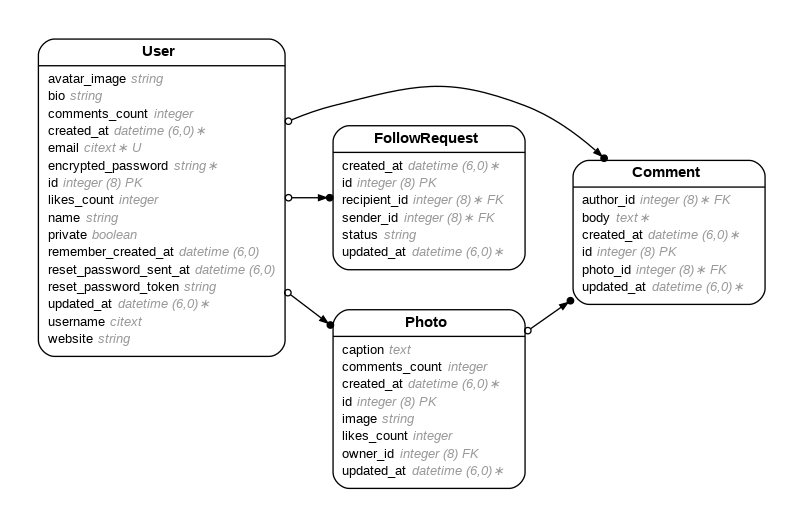
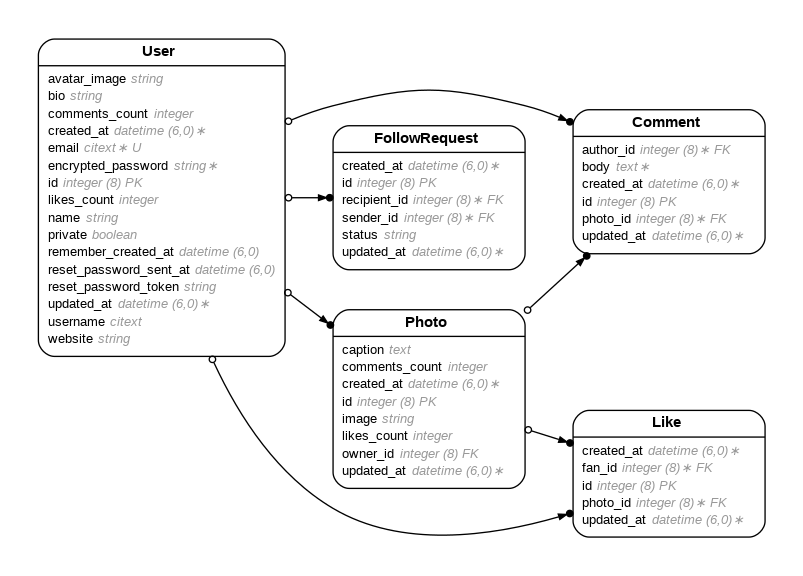
Generated likes

diff --git a/app/controllers/likes_controller.rb b/app/controllers/likes_controller.rb
@@ -1,0 +1,70 @@
+class LikesController < ApplicationController
+  before_action :set_like, only: %i[ show edit update destroy ]
+
+  # GET /likes or /likes.json
+  def index
+    @likes = Like.all
+  end
+
+  # GET /likes/1 or /likes/1.json
+  def show
+  end
+
+  # GET /likes/new
+  def new
+    @like = Like.new
+  end
+
+  # GET /likes/1/edit
+  def edit
+  end
+
+  # POST /likes or /likes.json
+  def create
+    @like = Like.new(like_params)
+
+    respond_to do |format|
+      if @like.save
+        format.html { redirect_to @like, notice: "Like was successfully created." }
+        format.json { render :show, status: :created, location: @like }
+      else
+        format.html { render :new, status: :unprocessable_entity }
+        format.json { render json: @like.errors, status: :unprocessable_entity }
+      end
+    end
+  end
+
+  # PATCH/PUT /likes/1 or /likes/1.json
+  def update
+    respond_to do |format|
+      if @like.update(like_params)
+        format.html { redirect_to @like, notice: "Like was successfully updated." }
+        format.json { render :show, status: :ok, location: @like }
+      else
+        format.html { render :edit, status: :unprocessable_entity }
+        format.json { render json: @like.errors, status: :unprocessable_entity }
+      end
+    end
+  end
+
+  # DELETE /likes/1 or /likes/1.json
+  def destroy
+    @like.destroy!
+
+    respond_to do |format|
+      format.html { redirect_to likes_path, status: :see_other, notice: "Like was successfully destroyed." }
+      format.json { head :no_content }
+    end
+  end
+
+  private
+    # Use callbacks to share common setup or constraints between actions.
+    def set_like
+      @like = Like.find(params.expect(:id))
+    end
+
+    # Only allow a list of trusted parameters through.
+    def like_params
+      params.expect(like: [ :fan_id, :photo_id ])
+    end
+end

diff --git a/db/schema.rb b/db/schema.rb
@@ -10,7 +10,7 @@
 #
 # It's strongly recommended that you check this file into your version control system.
 
-ActiveRecord::Schema[8.0].define(version: 2025_04_09_052010) do
+ActiveRecord::Schema[8.0].define(version: 2025_04_09_052348) do
   # These are extensions that must be enabled in order to support this database
   enable_extension "citext"
   enable_extension "pg_catalog.plpgsql"
@@ -32,6 +32,15 @@ ActiveRecord::Schema[8.0].define(version: 2025_04_09_052010) do
     t.datetime "updated_at", null: false
     t.index ["recipient_id"], name: "index_follow_requests_on_recipient_id"
     t.index ["sender_id"], name: "index_follow_requests_on_sender_id"
+  end
+
+  create_table "likes", force: :cascade do |t|
+    t.bigint "fan_id", null: false
+    t.bigint "photo_id", null: false
+    t.datetime "created_at", null: false
+    t.datetime "updated_at", null: false
+    t.index ["fan_id"], name: "index_likes_on_fan_id"
+    t.index ["photo_id"], name: "index_likes_on_photo_id"
   end
 
   create_table "photos", force: :cascade do |t|
@@ -70,5 +79,7 @@ ActiveRecord::Schema[8.0].define(version: 2025_04_09_052010) do
   add_foreign_key "comments", "users", column: "author_id"
   add_foreign_key "follow_requests", "users", column: "recipient_id"
   add_foreign_key "follow_requests", "users", column: "sender_id"
+  add_foreign_key "likes", "photos"
+  add_foreign_key "likes", "users", column: "fan_id"
   add_foreign_key "photos", "users", column: "owner_id"
 end

diff --git a/app/models/like.rb b/app/models/like.rb
@@ -1,0 +1,24 @@
+# == Schema Information
+#
+# Table name: likes
+#
+#  id         :bigint           not null, primary key
+#  created_at :datetime         not null
+#  updated_at :datetime         not null
+#  fan_id     :bigint           not null
+#  photo_id   :bigint           not null
+#
+# Indexes
+#
+#  index_likes_on_fan_id    (fan_id)
+#  index_likes_on_photo_id  (photo_id)
+#
+# Foreign Keys
+#
+#  fk_rails_...  (fan_id => users.id)
+#  fk_rails_...  (photo_id => photos.id)
+#
+class Like < ApplicationRecord
+  belongs_to :fan, class_name: "User"
+  belongs_to :photo
+end

diff --git a/db/migrate/20250409052348_create_likes.rb b/db/migrate/20250409052348_create_likes.rb
@@ -1,0 +1,10 @@
+class CreateLikes < ActiveRecord::Migration[8.0]
+  def change
+    create_table :likes do |t|
+      t.references :fan, null: false, foreign_key: { to_table: :users }
+      t.references :photo, null: false, foreign_key: true
+
+      t.timestamps
+    end
+  end
+end

diff --git a/config/routes.rb b/config/routes.rb
@@ -1,4 +1,5 @@
 Rails.application.routes.draw do
+  resources :likes
   resources :follow_requests
   resources :comments
   resources :photos
